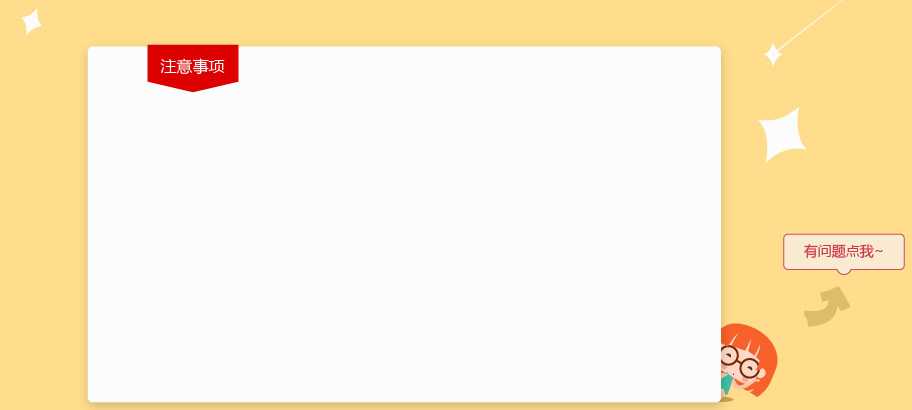
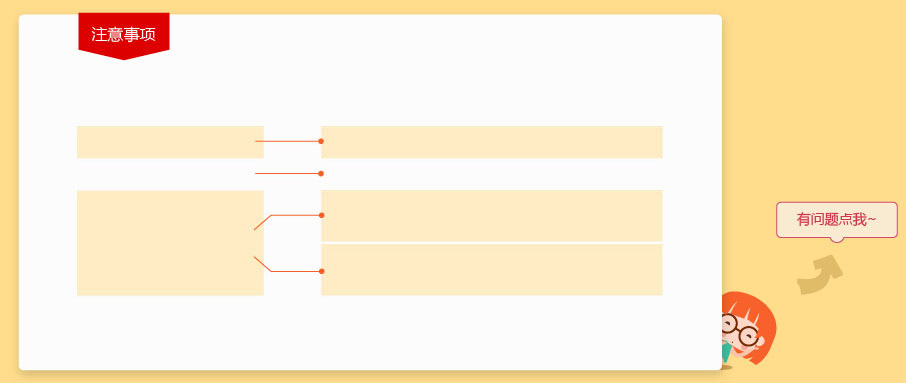
modify text

diff --git a/web/css/jl.ui.common.css b/web/css/jl.ui.common.css
@@ -453,8 +453,8 @@ a.tencent{
 	background: #ffcc42;
 }
 .noticeM .wrap{
-	height: 75px;
-	background: #ffcc42 url(/images/merge/bgNotice.jpg) no-repeat;
+	min-height: 74px;
+	background: #ffcc42 url(/images/merge/bgNotice.jpg) no-repeat 0 5px;
 	margin: 0 auto;
 }
 .noticeM .wrap .txt{
@@ -545,7 +545,7 @@ a.tencent{
 	background: url(/images/merge/bgxBottom.jpg) repeat-x;
 }
 .noticeCont {
-    padding-top: 47px;
+    /* padding-top: 47px; */
 }
 .noticeCont ul li {
     margin: 0 auto;
@@ -615,14 +615,14 @@ a.tencent{
     background: url(/images/merge/arrowRight.png) no-repeat;
 }
 .noticeCont .warn .cont table{
-    width: 520px;
+    width: 578px;
     position: absolute;
-    left: 146px;
-    top: 108px;
+    left: 86px;
+    top: 86px;
 }
 .noticeCont .warn .cont table tr td{
-    height: 26px;
-    line-height: 20px;
+    height: 29px;
+    line-height: 29px;
     padding: 0 2%;
 }
 .noticeCont .warn .cont table tr td, .noticeCont .warn .cont table tr td a{
@@ -633,21 +633,18 @@ a.tencent{
 .noticeCont .warn .cont table tr td a{
 	text-decoration: underline;
 }
-.noticeCont .warn .cont table td.bg, .noticeCont .warn .cont table td a.bg{
-    background: #feedc4;
-    text-decoration: none;
-}
 .noticeCont .warn .cont table tr td.sign{
     text-align: right;
     right: 0;
-    bottom: -14px;
+    bottom: -8px;
     position: absolute;
+    line-height: 16px;
 }
 .noticeCont .warn .cont table tr td.thanks{
     color: #f7612a;
     line-height: 18px;
     padding: 0;
-    line-height: 23px;
+    line-height: 21px;
 }
 .noticeCont .warn .cont table tr td a.bind{
     padding: 0.6% 2%;
